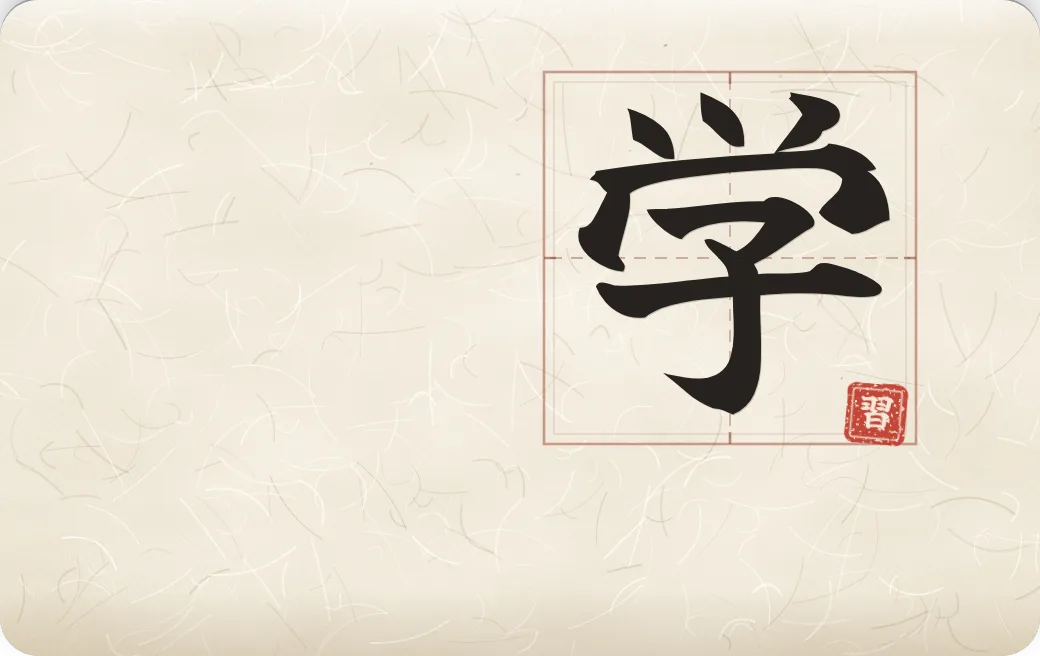
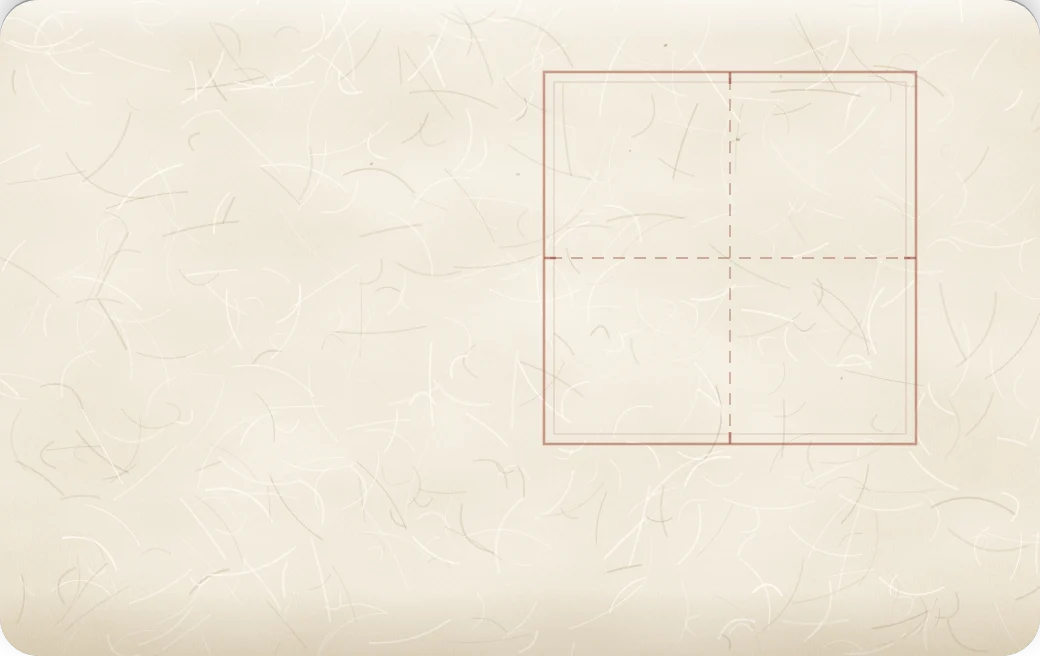
feat(home): Kanji pinta 学 trazo a trazo en su orden correcto y luego estampa el sello (NOE-558)

Changed region(s): [[0.5538, 0.122, 0.8615, 0.6402], [0.8, 0.5793, 0.8923, 0.7012]]

diff --git a/src/home/sections/card-motion/kanji.ts b/src/home/sections/card-motion/kanji.ts
@@ -1,5 +1,32 @@
-import type { CardMotion } from './index';
+// Kanji Study App: the moving parts of the card (学 written stroke by stroke in its correct order, then the red seal).
+// Generated by scripts/cards/gen/kanji-split.mjs; the base picture (public/home/cards/kanji.webp) keeps the washi paper, its fibers and the red guide frame.
+// At rest, this overlay on that base is the approved card. Build-up is about 1.4 s.
+import { draw, EASE, type CardMotion } from './index';
 
-// Placeholder until this card's overlay is built.
-const motion: CardMotion = { id: 'kanji', svg: '', play: () => [] };
[1 lines of base64/hex data omitted]
+
+// Stroke order of 学: three marks on top (left dot, middle dot, right sweep), the roof (short left drop, then the horizontal that hooks down),
+// then 子 (horizontal that sweeps down-left, vertical with hook, long horizontal). [start, duration] in ms after the delay.
+const STROKES: [number, number][] = [[0, 110], [90, 110], [180, 140], [310, 120], [420, 260], [660, 180], [820, 220], [1020, 180]];
+
+const motion: CardMotion = {
+  id: 'kanji',
+  svg,
+  play(root, delay) {
+    const out: Animation[] = [];
+    // Each stroke is a thick line in the mask, drawn along the stroke direction; the glyph shows wherever the mask has been drawn.
+    root.querySelectorAll<SVGPathElement>('mask path').forEach((p) => {
+      const [s, from, span] = (p.dataset.s || '1 0 1').split(' ').map(Number);
+      const [at, ms] = STROKES[s - 1];
+      out.push(draw(p, delay + at + from * ms, Math.max(40, span * ms)));
+    });
+    // The seal presses down last: from a little large and transparent to its place.
+    const seal = root.querySelector('[data-seal]') as SVGElement;
+    seal.style.transformBox = 'view-box';
+    seal.style.transformOrigin = '438px 207px';
+    out.push(seal.animate([{ transform: 'scale(1.15)', opacity: 0 }, { transform: 'scale(1)', opacity: 1 }], { duration: 240, delay: delay + 1180, easing: EASE, fill: 'backwards' }));
+    return out;
+  },
+};
+
 export default motion;
